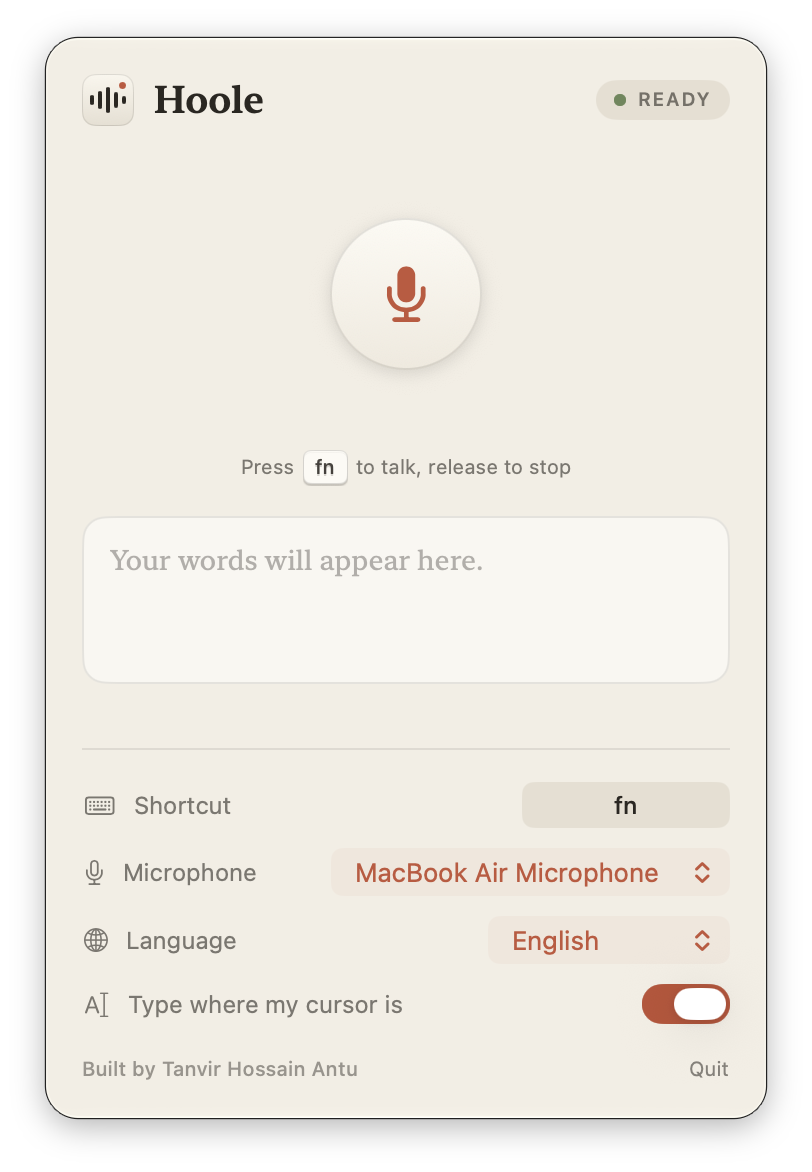
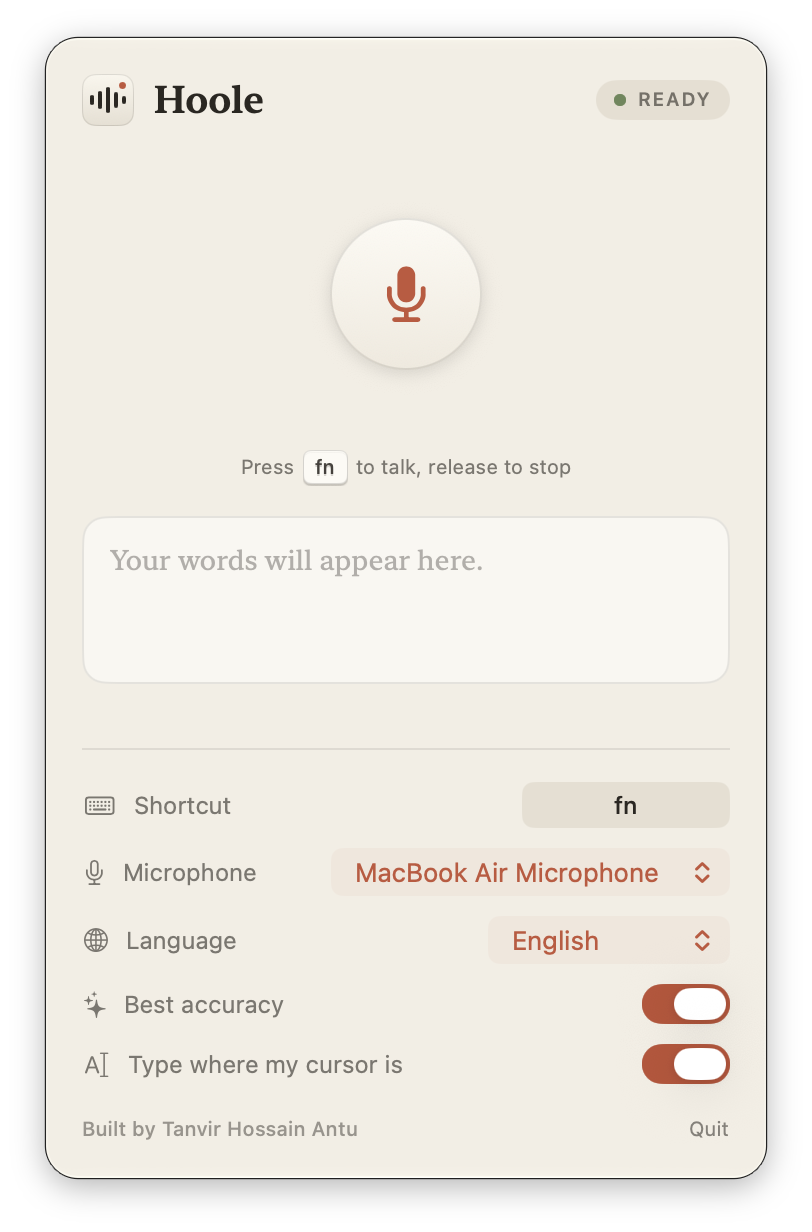
Best accuracy mode with Whisper large-v3-turbo, on by default
- Whisper transcribes the whole dictation on key release (GPU, offline);
  the live engine still shows a preview while you talk
- ~100 languages when Best accuracy is on (Bengali, Hindi, Arabic, ...)
- Model bundled in the app: no networking code, works fully offline
- Version 0.2.0

diff --git a/Sources/Hoole/App.swift b/Sources/Hoole/App.swift
@@ -22,6 +22,8 @@ struct Entry: Codable, Identifiable {
     var date = Date()
 }
 
+/// The languages the live (Fast) engine understands. Best accuracy adds Whisper's full list.
+let liveLanguageCodes: Set<String> = ["en", "de", "fr", "es", "it", "nl", "pl"]
 let languages: [(code: String, name: String)] = [
     ("", "Auto-detect"), ("en", "English"), ("de", "German"), ("fr", "French"),
     ("es", "Spanish"), ("it", "Italian"), ("nl", "Dutch"), ("pl", "Polish"),
@@ -54,11 +56,28 @@ final class AppState {
     var micUID = UserDefaults.standard.string(forKey: "micUID") ?? "" {
         didSet { UserDefaults.standard.set(micUID, forKey: "micUID") }
     }
+    /// Best = Whisper transcribes the whole recording on release: more accurate, not live. On by default.
+    var bestAccuracy = UserDefaults.standard.object(forKey: "bestAccuracy") as? Bool ?? true {
+        didSet {
+            UserDefaults.standard.set(bestAccuracy, forKey: "bestAccuracy")
+            if bestAccuracy { whisper.warmUp() }
+            // Fast mode can't do Whisper-only languages like Bengali; fall back to English.
+            if !bestAccuracy && !language.isEmpty && !liveLanguageCodes.contains(language) { language = "en" }
+        }
+    }
     var shortcut: Shortcut = load("shortcut") ?? .fn {
         didSet { save(shortcut, "shortcut"); keys.shortcut = shortcut }
     }
 
     private let transcriber = Transcriber()
+    private let whisper = Whisper()
+    private var usingWhisper = false // for the dictation in progress
+    private var livePreview = true   // the live engine knows this language, so its words are worth showing
+
+    /// What the Language menu offers: Whisper's ~99 languages with Best accuracy on, otherwise the live engine's 7.
+    var availableLanguages: [(code: String, name: String)] {
+        bestAccuracy && Whisper.isAvailable ? [("", "Auto-detect")] + Whisper.languages : languages
+    }
     private let hud = HUD()
     let keys = KeyWatcher()
     private var typing = false     // typing into another app for this dictation
@@ -68,12 +87,12 @@ final class AppState {
 
     private init() {
         transcriber.onUpdate = { [weak self] committed, pending in
-            guard let self, self.phase == .recording || self.phase == .finishing else { return }
+            guard let self, self.livePreview, self.phase == .recording || self.phase == .finishing else { return }
             self.committed = committed
             self.pending = pending
         }
         transcriber.onCommit = { [weak self] words in
-            guard let self, self.typing else { return }
+            guard let self, self.typing, !self.usingWhisper else { return } // Whisper types once, on release
             type((self.typedAnything ? " " : "") + words)
             self.typedAnything = true
         }
@@ -95,6 +114,7 @@ final class AppState {
         keys.onPress = { [weak self] in if self?.phase == .ready { self?.start() } }
         keys.onRelease = { [weak self] in if self?.phase == .recording { self?.stop() } }
         keys.start()
+        if bestAccuracy { whisper.warmUp() }
     }
 
     func toggle() {
@@ -128,7 +148,9 @@ final class AppState {
             // ponytail: same app as last time → assume the cursor sits right after our text, so continue with a space.
             // Reading the text before the cursor via AX would be exact, but terminals don't expose it.
             typedAnything = typing && target == lastTarget
-            try transcriber.start(language: language.isEmpty ? nil : language, micUID: micUID.isEmpty ? nil : micUID)
+            usingWhisper = bestAccuracy && Whisper.isAvailable
+            livePreview = language.isEmpty || liveLanguageCodes.contains(language)
+            try transcriber.start(language: liveLanguageCodes.contains(language) ? language : nil, micUID: micUID.isEmpty ? nil : micUID)
             phase = .recording
             hud.show()
         } catch {
@@ -139,9 +161,22 @@ final class AppState {
     private func stop() {
         phase = .finishing
         levels = levels.map { _ in 0 }
-        transcriber.stop { [weak self] text, silent in
+        transcriber.stop { [weak self] fastText, silent, audio in
             // Every onCommit has already run: they're queued on main ahead of this.
             guard let self else { return }
+            guard self.usingWhisper, !silent, !audio.isEmpty else { return self.finish(fastText, silent: silent) }
+            self.committed = self.livePreview ? fastText : ""
+            self.pending = ""
+            self.whisper.transcribe(audio, language: self.language.isEmpty ? nil : self.language) { text, _ in
+                if self.typing && !text.isEmpty {
+                    type((self.typedAnything ? " " : "") + text)
+                }
+                self.finish(text, silent: false)
+            }
+        }
+    }
+
+    private func finish(_ text: String, silent: Bool) {
             self.committed = text
             self.pending = ""
             self.phase = .ready
@@ -160,7 +195,6 @@ final class AppState {
             if self.typing && !text.isEmpty { self.lastTarget = self.target }
             self.typing = false
             self.hud.hide(after: 1.2)
-        }
     }
 }
 
@@ -170,7 +204,7 @@ func copy(_ text: String) {
 }
 
 /// Types text at the cursor of the frontmost app as Unicode key events. Needs Accessibility permission.
-private func type(_ text: String) {
+func type(_ text: String) {
     // Private state: the shortcut's physically held modifiers (e.g. ⇧) must not leak into the typed text.
     let source = CGEventSource(stateID: .privateState)
     let units = Array(text.utf16)

diff --git a/Sources/Hoole/Whisper.swift b/Sources/Hoole/Whisper.swift
@@ -1,0 +1,72 @@
+import AppKit
+import whisper
+
+/// Whisper large-v3-turbo through whisper.cpp, for the Best accuracy mode. Runs on the GPU via Metal.
+/// Transcribes a whole recording at once, after the key is released. The model ships inside the app.
+final class Whisper {
+    static let modelURL = Bundle.main.url(forResource: "whisper-large-v3-turbo", withExtension: "bin")
+    static var isAvailable: Bool { modelURL != nil }
+
+    /// Every language Whisper understands (about 99), as (code, English name), sorted by name.
+    static let languages: [(code: String, name: String)] = (0...whisper_lang_max_id())
+        .map { (String(cString: whisper_lang_str($0)), String(cString: whisper_lang_str_full($0)).capitalized) }
+        .sorted { $0.name < $1.name }
+
+    private let queue = DispatchQueue(label: "hoole.whisper")
+    private var context: OpaquePointer?
+
+    init() {
+        // Free the model before exit: whisper.cpp's GPU teardown aborts if a context is still alive at exit.
+        NotificationCenter.default.addObserver(forName: NSApplication.willTerminateNotification, object: nil, queue: nil) { [self] _ in
+            queue.sync {
+                if let context { whisper_free(context) }
+                context = nil
+            }
+        }
+    }
+
+    /// Loads the model now (takes a moment), so the first dictation doesn't wait for it.
+    func warmUp() {
+        queue.async { _ = self.loadedContext() }
+    }
+
+    /// `done` runs on main with the text and how long Whisper took, in seconds.
+    func transcribe(_ samples: [Float], language: String?, _ done: @escaping (String, TimeInterval) -> Void) {
+        queue.async {
+            let started = Date()
+            var text = ""
+            if let context = self.loadedContext(), !samples.isEmpty {
+                var params = whisper_full_default_params(WHISPER_SAMPLING_BEAM_SEARCH)
+                params.beam_search.beam_size = 5
+                params.n_threads = Int32(max(2, min(8, ProcessInfo.processInfo.activeProcessorCount - 2)))
+                params.print_progress = false
+                params.print_realtime = false
+                params.print_special = false
+                params.print_timestamps = false
+                params.no_timestamps = true
+                params.translate = false
+                text = (language ?? "auto").withCString { lang in
+                    params.language = lang
+                    let code = samples.withUnsafeBufferPointer { whisper_full(context, params, $0.baseAddress, Int32($0.count)) }
+                    guard code == 0 else { return "" }
+                    return (0..<whisper_full_n_segments(context))
+                        .map { String(cString: whisper_full_get_segment_text(context, $0)) }
+                        .joined()
+                }
+            }
+            let elapsed = Date().timeIntervalSince(started)
+            let result = text.trimmingCharacters(in: .whitespacesAndNewlines)
+            DispatchQueue.main.async { done(result, elapsed) }
+        }
+    }
+
+    private func loadedContext() -> OpaquePointer? {
+        if context == nil, let url = Self.modelURL {
+            var params = whisper_context_default_params()
+            params.use_gpu = true
+            params.flash_attn = true
+            context = whisper_init_from_file_with_params(url.path, params)
+        }
+        return context
+    }
+}

diff --git a/Sources/Hoole/Transcriber.swift b/Sources/Hoole/Transcriber.swift
@@ -21,6 +21,7 @@ final class Transcriber {
 
     // Only touched on `queue`.
     private var buffered: [Float] = []
+    private var recording: [Float] = [] // the whole dictation at 16 kHz, for Whisper
     private var committed: [String] = []
     private var language: String?
 
@@ -43,6 +44,7 @@ final class Transcriber {
         queue.sync {
             self.language = language
             buffered = []
+            recording = []
             committed = []
         }
         // A fresh engine each time picks up the current device; a long-lived one can stay bound to a stale input.
@@ -64,8 +66,8 @@ final class Transcriber {
         try engine.start()
     }
 
-    /// `done` gets the text, and whether the mic was completely silent.
-    func stop(_ done: @escaping (String, Bool) -> Void) {
+    /// `done` gets the text, whether the mic was completely silent, and the whole recording.
+    func stop(_ done: @escaping (String, Bool, [Float]) -> Void) {
         engine.inputNode.removeTap(onBus: 0)
         engine.stop()
         // Runs after every chunk the tap already queued.
@@ -74,7 +76,8 @@ final class Transcriber {
             self.apply(self.call { needle_stream_transcribe_stop($0, $1) })
             let text = self.committed.joined(separator: " ")
             let silent = self.peak == 0
-            DispatchQueue.main.async { done(text, silent) }
+            let audio = self.recording
+            DispatchQueue.main.async { done(text, silent, audio) }
         }
     }
 
@@ -95,6 +98,7 @@ final class Transcriber {
         onLevel?(rms)
         queue.async {
             self.buffered += samples
+            self.recording += samples
             if self.buffered.count >= 16000 { self.process() } // ~1 s per pass, as the engine expects
         }
     }

diff --git a/Sources/Hoole/Views.swift b/Sources/Hoole/Views.swift
@@ -56,11 +56,21 @@ struct PopoverView: View {
                     Label("Language", systemImage: "globe").foregroundStyle(ink.opacity(0.6))
                     Spacer()
                     Picker("", selection: $state.language) {
-                        ForEach(languages, id: \.code) { Text($0.name).tag($0.code) }
+                        ForEach(state.availableLanguages, id: \.code) { Text($0.name).tag($0.code) }
                     }
                     .labelsHidden()
                     .fixedSize()
                 }
+                HStack {
+                    Label("Best accuracy", systemImage: "sparkles").foregroundStyle(ink.opacity(0.6))
+                    Spacer()
+                    Toggle("", isOn: $state.bestAccuracy)
+                        .labelsHidden()
+                        .toggleStyle(.switch)
+                        .controlSize(.small)
+                        .disabled(!Whisper.isAvailable)
+                }
+                .help("On: types your words right after you release the key, most accurately. Off: types live while you talk, a little less accurately.")
                 HStack {
                     Label("Type where my cursor is", systemImage: "text.cursor").foregroundStyle(ink.opacity(0.6))
                     Spacer()

diff --git a/Package.swift b/Package.swift
@@ -7,9 +7,11 @@ let package = Package(
     targets: [
         // Speech engine: Vendor/libneedle.dylib + Vendor/needle.h, fetched by scripts/build.sh
         .systemLibrary(name: "CEngine", path: "Sources/CEngine"),
+        // Whisper (whisper.cpp) for the Best accuracy mode: Vendor/whisper.xcframework, fetched by scripts/build.sh
+        .binaryTarget(name: "whisper", path: "Vendor/whisper.xcframework"),
         .executableTarget(
             name: "Hoole",
-            dependencies: ["CEngine"],
+            dependencies: ["CEngine", "whisper"],
             linkerSettings: [
                 .unsafeFlags(["-L\(Context.packageDirectory)/Vendor", "-Xlinker", "-rpath", "-Xlinker", "@executable_path/../Frameworks"]),
                 .linkedLibrary("c++"),

diff --git a/README.md b/README.md
@@ -30,24 +30,25 @@
 
 - **Works fully offline:** once installed, Hoole never needs the internet. There's no server to send your voice to; the speech model lives inside the app. Turn off Wi-Fi and it works exactly the same.
 - **Types for you, anywhere:** Notes, Slack, Mail, your browser, the terminal. If there's a cursor, Hoole can type there.
-- **Press to talk, release to stop:** press and hold **fn** while you speak; release it and Hoole stops listening. Words appear as you talk.
+- **Press to talk, release to stop:** press and hold **fn** while you speak; release it and Hoole types what you said.
 - **Private by design:** no account, no analytics, nothing uploaded. Ever.
-- **Fast:** words show up within about a second of saying them.
+- **Very accurate:** Hoole uses a large, high-quality speech model that gets names, punctuation and fast speech right. A typical sentence is typed about a second after you release the key.
 - **Your shortcut:** **fn** by default, or pick your own: a single key like **F5**, a combo like **⌥ Space**, or keys held together like **A + Space**.
-- **7 languages:** English (the default), German, French, Spanish, Italian, Dutch and Polish, or let Hoole detect the language.
+- **About 100 languages:** English by default, plus Bengali, Hindi, Urdu, Arabic, Chinese, Japanese, Spanish, French, German and many more, or let Hoole detect the language. (Accuracy is best for widely spoken languages, English especially.)
+- **Live mode too:** turn off *Best accuracy* and words are typed live while you talk, using a smaller, faster model (7 languages).
 - **No time limit:** talk for as long as you like.
 
 ## Requirements
 
 - A Mac with **Apple Silicon** (M1, M2, M3, M4 or later)
 - **macOS 14 Sonoma** or newer
-- About 30 MB of disk space
+- About 1 GB of disk space, and about 1 GB of memory while Hoole is running (8 GB of RAM or more recommended)
 
 ## Install
 
 ### Option A: Download (easiest)
 
-1. Download **Hoole.dmg** from the [latest release](https://github.com/antu7/hoole/releases/latest).
+1. Download **Hoole.dmg** (about 850 MB, since the speech models are included) from the [latest release](https://github.com/antu7/hoole/releases/latest).
 2. Open it and drag **Hoole** into **Applications**.
 3. Open Hoole from Applications. macOS will say it *can't verify the developer*. That's expected: Hoole is a free app and isn't registered with Apple. To open it anyway:
    - Click **Done** on the warning.
@@ -81,7 +82,7 @@ cd hoole
 ./scripts/build.sh
 ```
 
-The first build downloads the speech model (about 17 MB) and takes a minute or two.
+The first build downloads the speech models (about 900 MB in total), so it takes a few minutes depending on your connection.
 
 > **One-time password prompt:** on the first build, macOS asks for your password to trust a local signing certificate called "Hoole Local Signing". This lets macOS remember Hoole's permissions when you update or rebuild. If you skip it, Hoole still works, but macOS will ask for permissions again after every rebuild.
 
@@ -108,8 +109,8 @@ For Accessibility, macOS opens **System Settings → Privacy & Security → Acce
 ## How to use
 
 1. Click into any text field: a message, a document, a search box, a terminal.
-2. **Press and hold <kbd>fn</kbd> to talk.** A small bar at the bottom of the screen shows that Hoole is listening, along with your words.
-3. **Release <kbd>fn</kbd> to stop listening.** Your words are typed where your cursor was.
+2. **Press and hold <kbd>fn</kbd> to talk.** A small bar at the bottom of the screen shows that Hoole is listening, with a live preview of your words.
+3. **Release <kbd>fn</kbd> to stop listening.** About a second later, your words are typed where your cursor was.
 
 Want to keep going? Press <kbd>fn</kbd> again; Hoole adds a space and continues your sentence.
 
@@ -121,7 +122,8 @@ Want to keep going? Press <kbd>fn</kbd> again; Hoole adds a space and continues 
 |---|---|
 | **Shortcut** | Click it, then press the key or keys you want and let go. Esc cancels. |
 | **Microphone** | Choose which mic to use: built-in, AirPods, a USB mic, and so on. |
-| **Language** | English by default. Pick another language, or Auto-detect. |
+| **Language** | English by default. With *Best accuracy* on, choose from about 100 languages (Bengali, Hindi, Arabic, Chinese, …); with it off, from 7. Or Auto-detect. |
+| **Best accuracy** | On by default: Hoole types your words right after you release the key, as accurately as possible. Off: words are typed live while you talk, a little less accurately. |
 | **Type where my cursor is** | Turn this off to have Hoole copy text to the clipboard instead of typing it. |
 | **Recent** | Your last few dictations. Click one to copy it again. |
 
